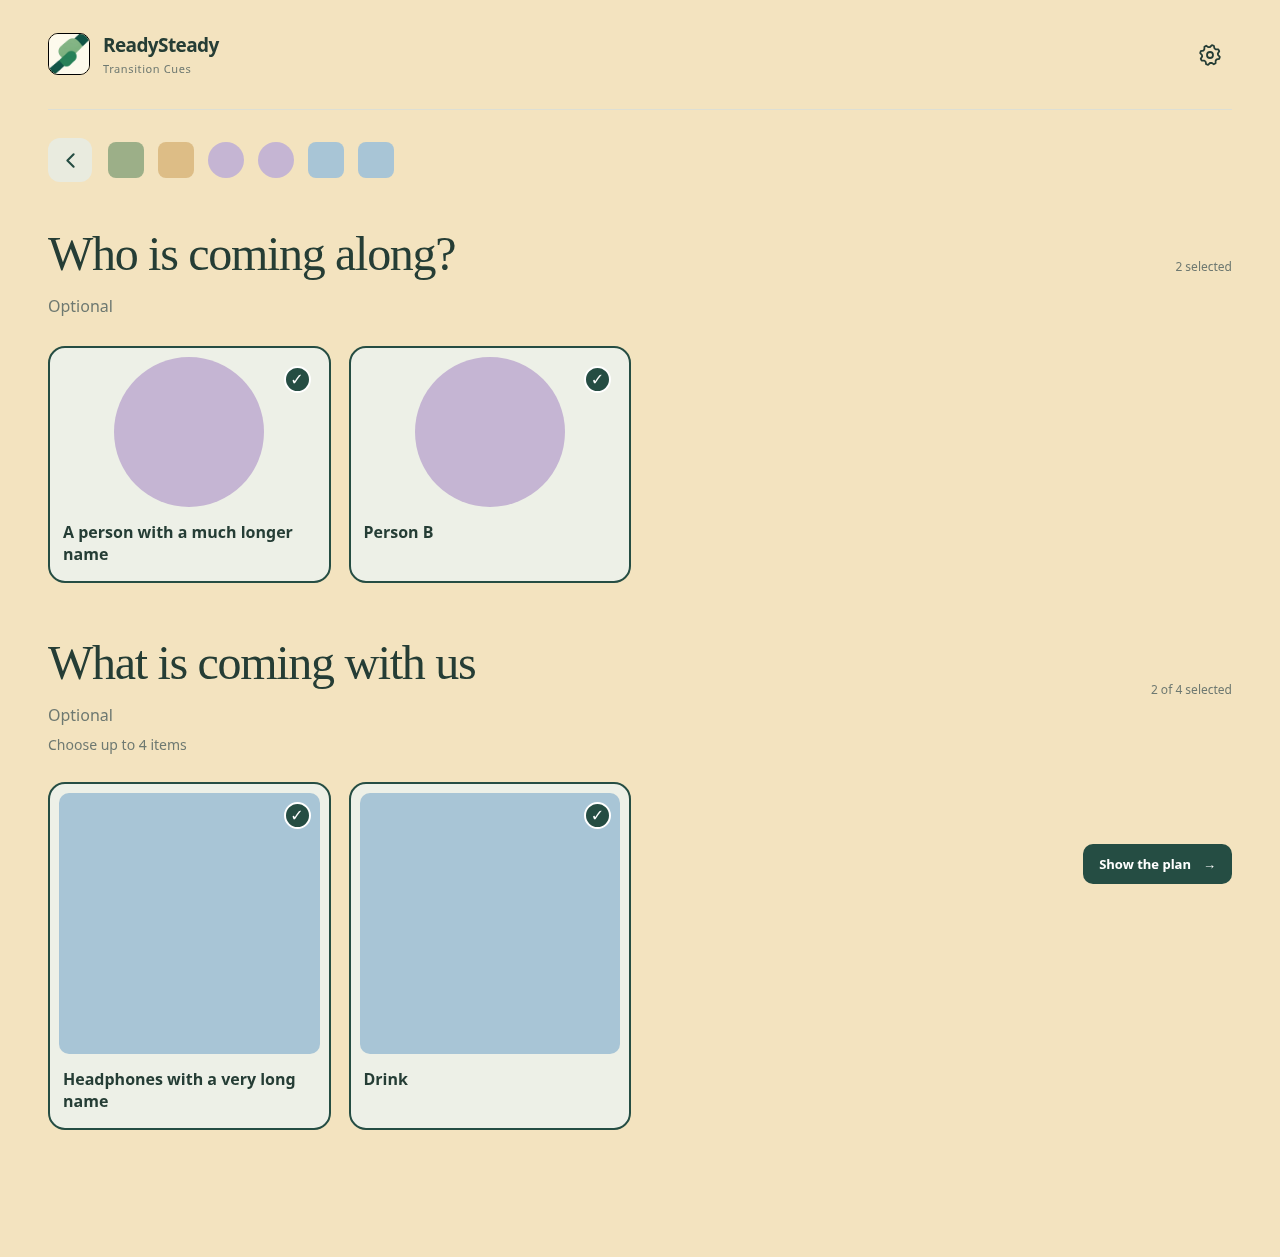
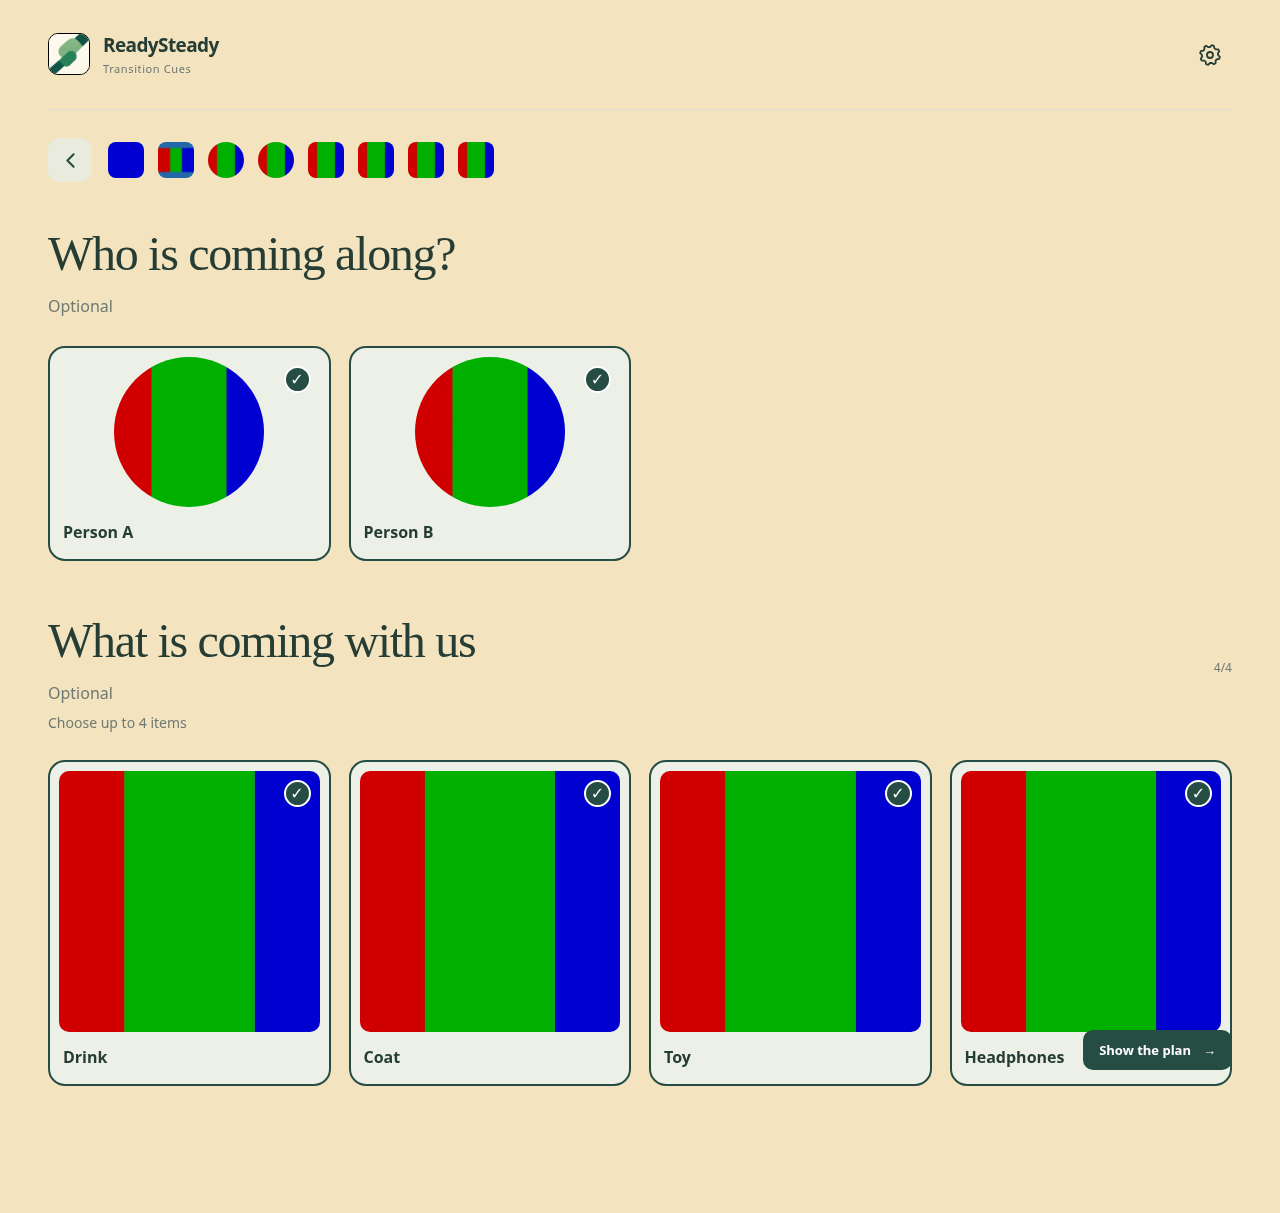
Simplify companion selection counters in v1.0.23

diff --git a/transition_cues/transition-cues-web/app.js b/transition_cues/transition-cues-web/app.js
@@ -73,8 +73,8 @@ function renderChoose(focusStep=false) {
     }).join('')}</div>`:empty(kind);
   }
   const title=['Where are we going?','How are we travelling','Who is coming along?'][planStep];
-  const heading=`<div class="intro wizard-heading"><div><h1 id="planHeading" tabindex="-1">${title}</h1>${planStep===2?'<p class="optional-label">Optional</p>':''}</div>${planStep===2?`<small id="peopleCount" role="status">${selected.people.length} selected</small>`:''}</div>`;
-  const choices=planStep===2?`${cards('people')}<section class="optional-items" aria-labelledby="itemsHeading"><div class="intro wizard-heading"><div><h2 id="itemsHeading" tabindex="-1">What is coming with us</h2><p class="optional-label">Optional</p><p class="items-guidance">Choose up to 4 items</p></div><small id="itemCount" role="status">${selected.items.length} of ${MAX_BRING_ITEMS} selected</small></div>${cards('items')}</section>`:cards(planStep===0?'places':'transport');
+  const heading=`<div class="intro wizard-heading"><div><h1 id="planHeading" tabindex="-1">${title}</h1>${planStep===2?'<p class="optional-label">Optional</p>':''}</div></div>`;
+  const choices=planStep===2?`${cards('people')}<section class="optional-items" aria-labelledby="itemsHeading"><div class="intro wizard-heading"><div><h2 id="itemsHeading" tabindex="-1">What is coming with us</h2><p class="optional-label">Optional</p><p class="items-guidance">Choose up to 4 items</p></div><small id="itemCount" role="status">${selected.items.length}/${MAX_BRING_ITEMS}</small></div>${cards('items')}</section>`:cards(planStep===0?'places':'transport');
   frame(progress+`<section id="planStep" data-step="${planStep}" aria-labelledby="planHeading">${heading}${choices}</section><div class="journey-bar wizard-actions" ${selected.places?'':'hidden'}><button id="start" class="primary" ${selected.places&&selected.transport?'':'disabled'}>Show the plan <span aria-hidden="true">→</span></button></div>`,'choose');
   app.querySelectorAll('[data-kind]').forEach(button=>button.onclick=()=>{
     const kind=button.dataset.kind, item=state[kind].find(x=>x.id===button.dataset.id);

diff --git a/tests/browser_smoke.py b/tests/browser_smoke.py
@@ -67,13 +67,13 @@ def run():
                 page.get_by_role('button', name='Bus',exact=True).click()
                 for name in ['Drink','Headphones','Coat','Toy']:
                     page.get_by_role('button', name=name, exact=True).click()
-                expect(page.locator('#itemCount')).to_contain_text('4 of 4')
+                expect(page.locator('#itemCount')).to_have_text('4/4')
                 expect(page.get_by_role('button', name='Bag', exact=True)).to_be_disabled()
                 expect(page.locator('[data-kind="items"][aria-pressed="true"]')).to_have_count(4)
                 page.get_by_role('button', name='Headphones', exact=True).click()
                 expect(page.get_by_role('button', name='Bag', exact=True)).to_be_enabled()
                 page.get_by_role('button', name='Bag', exact=True).click()
-                expect(page.locator('#itemCount')).to_contain_text('4 of 4')
+                expect(page.locator('#itemCount')).to_have_text('4/4')
                 page.get_by_role('button', name='Bag', exact=True).click()
                 page.get_by_role('button', name='Headphones', exact=True).click()
                 page.screenshot(path='/tmp/transition-cues-picker.png', full_page=True)

diff --git a/tests/browser_people_crop.py b/tests/browser_people_crop.py
@@ -160,7 +160,7 @@ def run(engine):
                 for name in ['Person A','Person B']:page.get_by_role('button',name=name,exact=True).click()
                 # People can be toggled independently of the four-item cap.
                 page.get_by_role('button',name='Person B',exact=True).click()
-                expect(page.locator('#peopleCount')).to_contain_text('1 selected')
+                expect(page.locator('#peopleCount')).to_have_count(0)
                 page.get_by_role('button',name='Person B',exact=True).click()
                 page.screenshot(path='/tmp/transition-cues-picker.png',full_page=True)
                 show_plan(page);expect(page.locator('.person-card')).to_have_count(2)

diff --git a/tests/container_smoke.py b/tests/container_smoke.py
@@ -81,5 +81,5 @@ print('PASS: replacement container preserves library and images in /data')
 
 if __name__ == '__main__':
     parser = argparse.ArgumentParser()
-    parser.add_argument('--image', default='transition-cues-ha-check:1.0.22')
+    parser.add_argument('--image', default='transition-cues-ha-check:1.0.23')
     run(parser.parse_args().image)

diff --git a/transition_cues/CHANGELOG.md b/transition_cues/CHANGELOG.md
@@ -1,5 +1,9 @@
 # Changelog
 
+## 1.0.23
+
+- Remove the People selection counter and simplify the Items counter to x/4.
+
 ## 1.0.22
 
 - Replace all current icon assets and Home Assistant wordmark with the supplied zoomed mitten artwork, with refreshed icon URLs.
